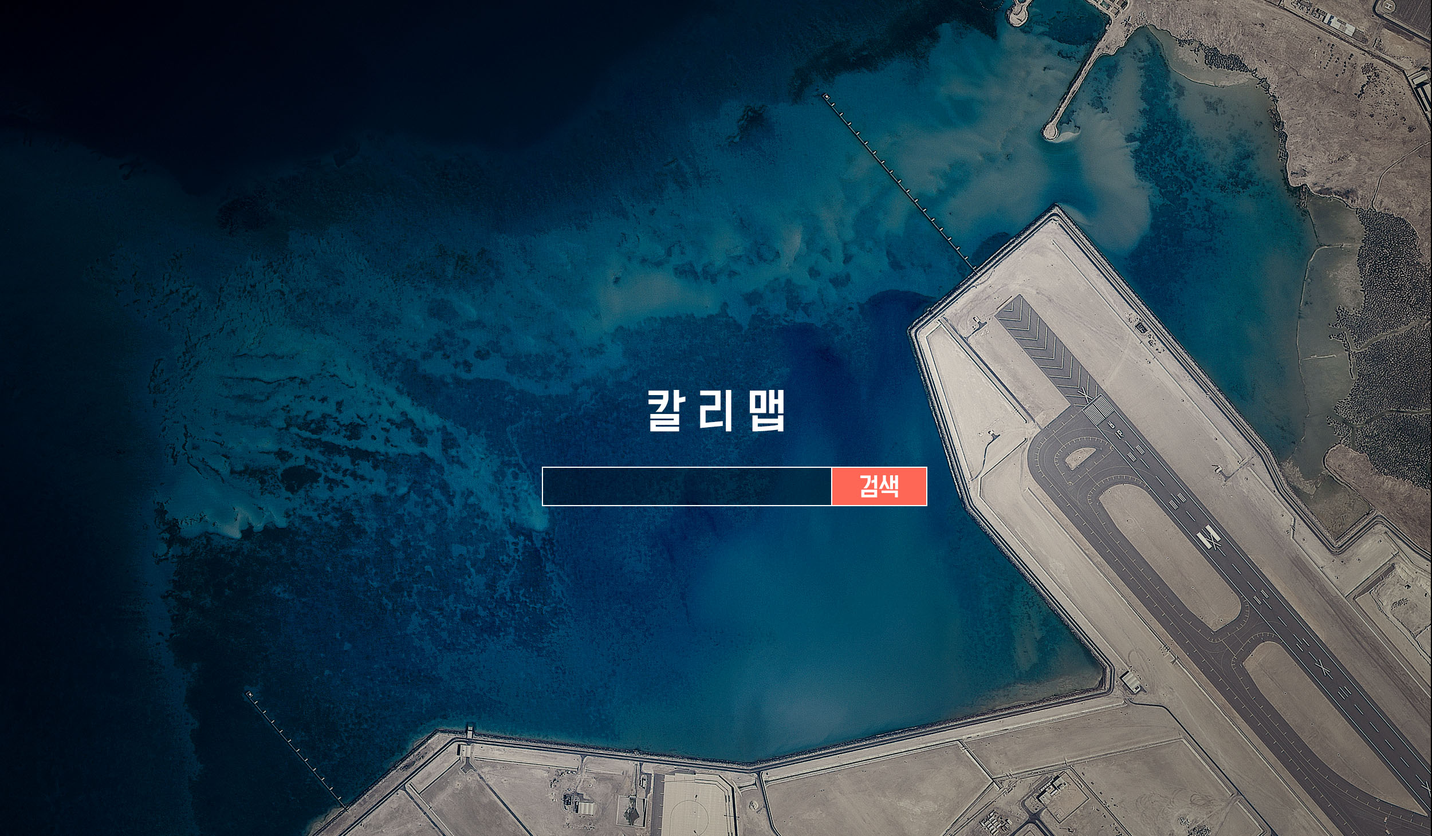
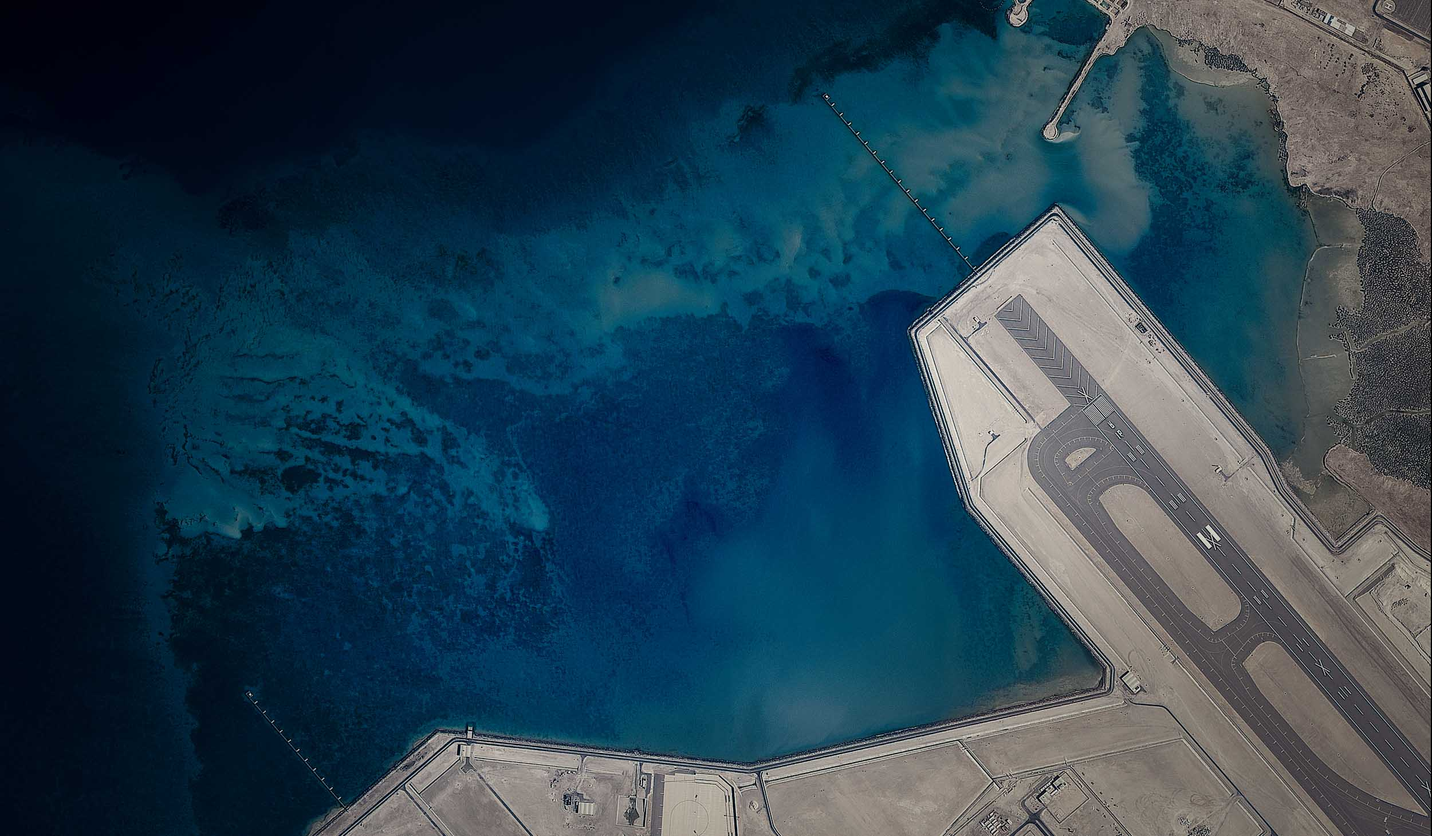
홈페이지 메인 페이지 수정

Changed region(s): [[0.3744, 0.5548, 0.6552, 0.6164], [0.4368, 0.4623, 0.5616, 0.524], [0.7176, 0.2466, 0.7488, 0.2774]]

diff --git a/Web/index.html b/Web/index.html
@@ -74,10 +74,15 @@
     <header>
         <div class="header-content">
             <div class="header-content-inner">
-                <!--<h1>칼리맵</h1>
-                <hr>
-                <p>환영합니다. 칼리맵에서 다양한 위성 영상을 만나보세요</p>
-                <a href="#about" class="btn btn-primary btn-xl page-scroll">더 알아보기</a> !-->
+              <img class="header-img" src='img/header-content-bg.png' width="30%">
+              <div class="header-input">
+                <div class="input-group">
+                  <input type="text" class="form-control" placeholder="hi" aria-describedby="basic-addon2">
+                  <span class="input-group-addon" id="basic-addon2">GO</span>
+                </div>  
+              </div>
+
+              <!--<a href="#about" class="btn btn-primary btn-xl page-scroll">더 알아보기</a> !-->
             </div>
         </div>
     </header>

diff --git a/Web/css/creative.css b/Web/css/creative.css
@@ -160,21 +160,10 @@ header .header-content {
   padding: 100px 15px 100px;
   width: 100%;
 }
-header .header-content .header-content-inner h1 {
-  font-weight: 700;
-  text-transform: uppercase;
-  margin-top: 0;
-  margin-bottom: 0;
+header .header-input{
+  margin-top:50px;
 }
-header .header-content .header-content-inner hr {
-  margin: 30px auto;
-}
-header .header-content .header-content-inner p {
-  font-weight: 300;
-  color: rgba(255, 255, 255, 0.7);
-  font-size: 16px;
-  margin-bottom: 50px;
-}
+
 @media (min-width: 768px) {
   header {
     min-height: 100%;
